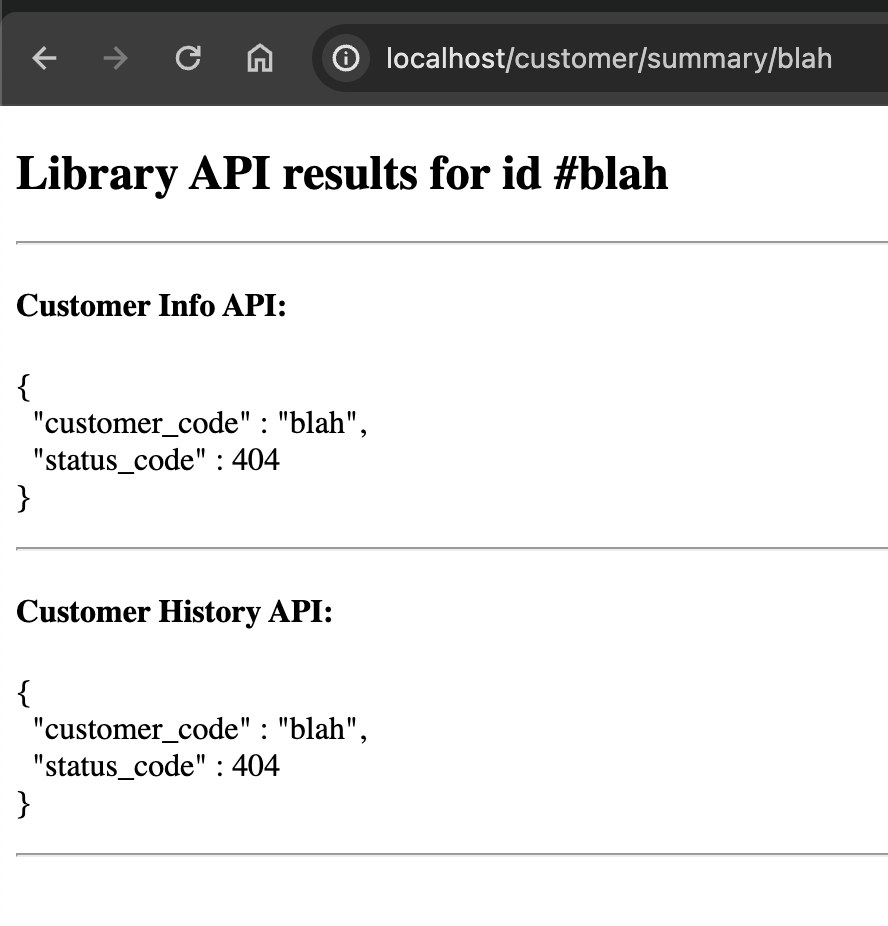
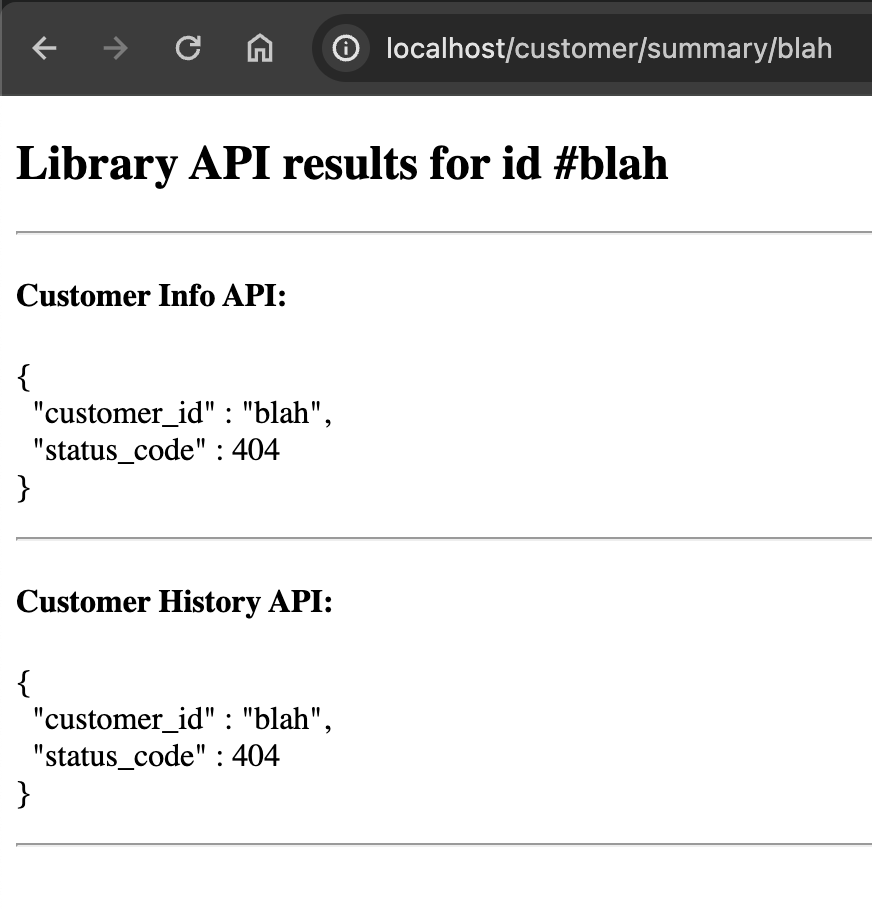
Updating customer_id field name.

diff --git a/src/main/java/org/mveeprojects/services/ProxyService.java b/src/main/java/org/mveeprojects/services/ProxyService.java
@@ -95,7 +95,7 @@ public class ProxyService {
             return rootNode;
         } catch (Exception e) {
             ObjectNode rootNode = mapper.createObjectNode();
-            rootNode.put("customer_code", httpResult.getCustomerId());
+            rootNode.put("customer_id", httpResult.getCustomerId());
             rootNode.put("status_code", httpResult.getStatusCode());
             return rootNode;
         }

diff --git a/README.md b/README.md
@@ -36,8 +36,8 @@ Returns all proxied API responses for a given customer_id ("abc", see wiremock e
 
 If the given customer_id ("blah" in the example below) does not exist or cannot be returned for any other reason, this is handled and represented in the response.
 
-<img src="images/library_summary_endpoint_200.png" alt="library_summary_endpoint_200.png" width="450"/>
-<img src="images/library_summary_endpoint_404.png" alt="library_summary_endpoint_404.png" width="450"/>
+<img src="images/library_summary_endpoint_200.png" alt="library_summary_endpoint_200.png" width="500"/>
+<img src="images/library_summary_endpoint_404.png" alt="library_summary_endpoint_404.png" width="500"/>
 
 ### Wiremock
 
